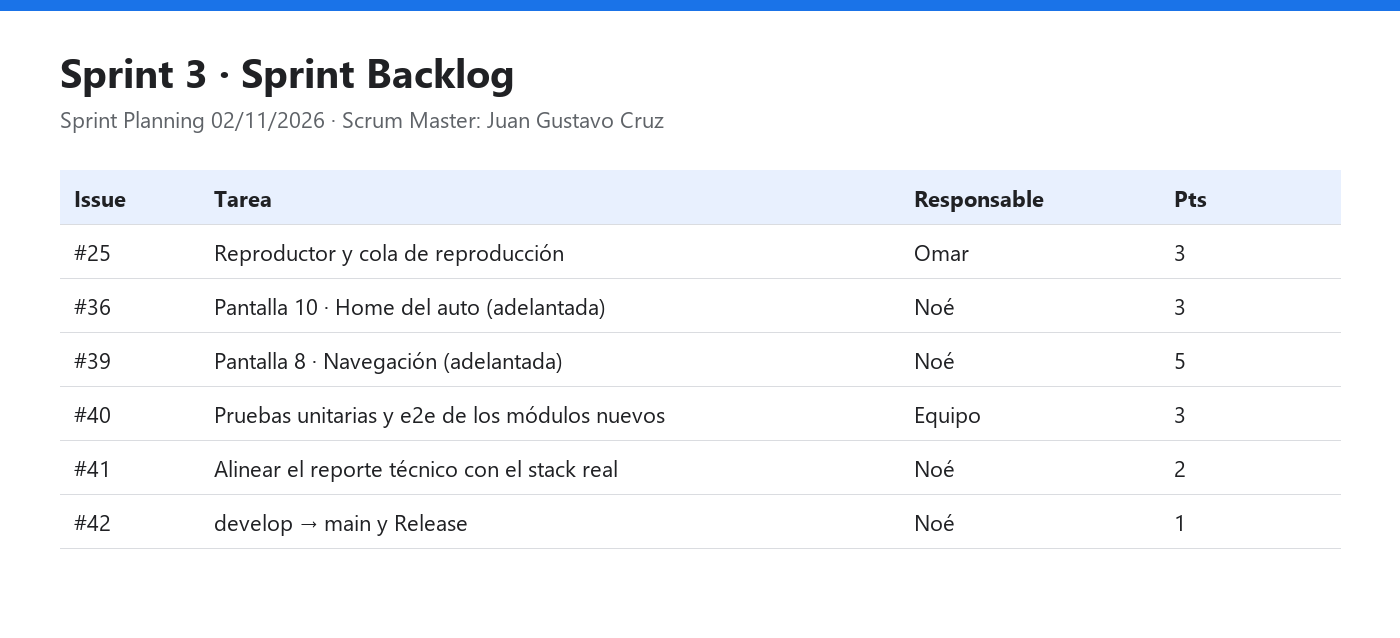
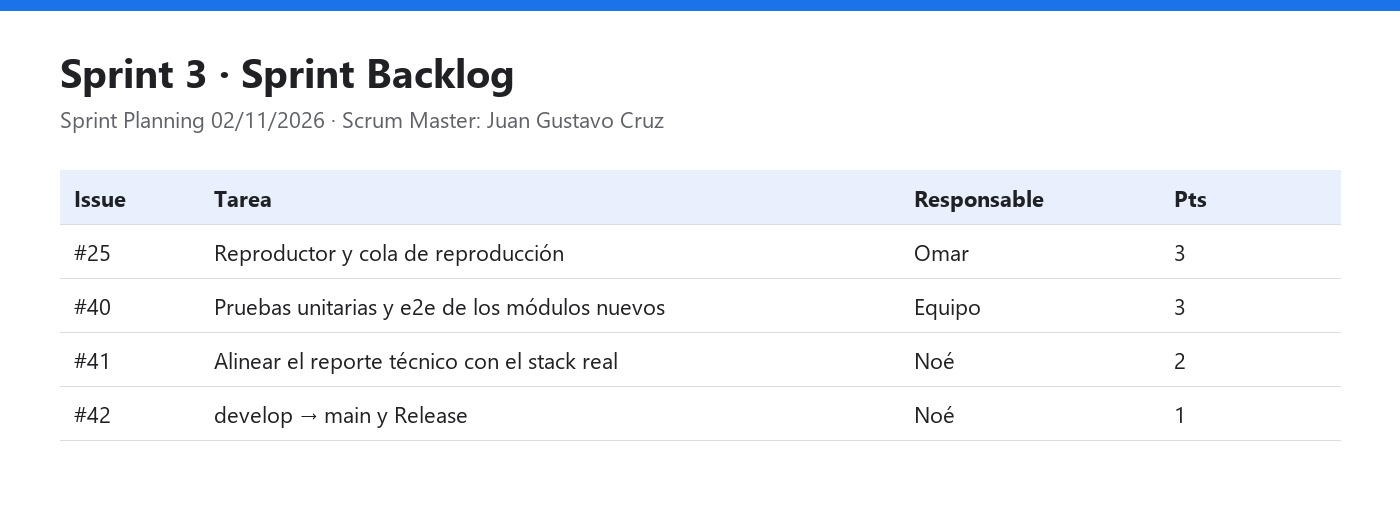
docs(scrum): el modo automóvil pasa al Sprint 4; el Sprint 3 queda con audio, seguridad, reporte y Release

diff --git a/docs/scrum/sprint-3/review.md b/docs/scrum/sprint-3/review.md
@@ -15,11 +15,11 @@
 
 ## Resultado del sprint
 
-Milestone: [Sprint 3](https://github.com/gusmendez3249/Jose_Alfredo/milestone/3) · **7 de 7 issues cerradas (100 %)**
+Milestone: [Sprint 3](https://github.com/gusmendez3249/Jose_Alfredo/milestone/3) · **4 de 4 issues cerradas (100 %)**
 
 | Milestone | Cerradas | Abiertas | Avance |
 |---|---|---|---|
-| [Sprint 3](https://github.com/gusmendez3249/Jose_Alfredo/milestone/3) | 7 | 0 | 100 % |
+| [Sprint 3](https://github.com/gusmendez3249/Jose_Alfredo/milestone/3) | 4 | 0 | 100 % |
 
 ### Burndown
 
@@ -31,16 +31,14 @@ Gráfica generada con `docs/scrum/herramientas/burndown.py` a partir del campo S
 
 | Issue | Tarea | Responsable | Evidencia |
 |---|---|---|---|
-| #39 | [Auto] Pantalla 8 · Navegación en Android Auto | Noé | PR #53 · [Daily 5 del Sprint 2](../sprint-2/daily-5.md) |
-| #36 | [Auto] Pantalla 10 · Home del modo automóvil | Noé | PR #53 · [Daily 6 del Sprint 2](../sprint-2/daily-6.md) |
 | #25 | Reproductor y cola de reproducción | Omar | PRs #57 y #58 · [Daily 5](daily-5.md) |
-| #40 | [QA] Pruebas unitarias y e2e de los módulos nuevos | Equipo | Pruebas de `auto`, de la cola de audio y de seguridad · `docs/pruebas/android-auto.md` |
+| #40 | [QA] Pruebas unitarias y e2e de los módulos nuevos | Equipo | 53 pruebas unitarias de la app (incluida la cola de audio) y pruebas HTTP de seguridad del backend |
 | #41 | [Docs] Reporte técnico alineado con el stack real | Noé | PR #54 · [Daily 2](daily-2.md), [Daily 3](daily-3.md) |
 | #42 | [Release] `develop` → `main` y Release | Noé | PR #55 · [v4.2-sprint3](https://github.com/gusmendez3249/Jose_Alfredo/releases/tag/v4.2-sprint3) |
 
-Épicas cerradas: **#21 Vista de navegación GPS para Android Auto** y **#24 Demos de audio del concierto**.
+Épica cerrada: **#24 Demos de audio del concierto**.
 
-Integraciones del sprint: PR #56 (seguridad #50–#52), PRs #57 y #58 (audio), PR #54 (documentación) y PR #55 (`develop` → `main`).
+Integraciones del sprint: PR #56 (seguridad #50–#52), PR #59 (seguridad en la nube), PRs #57 y #58 (audio), PR #54 (documentación) y PR #55 (`develop` → `main`).
 
 ## Tareas no terminadas
 
@@ -50,12 +48,15 @@ Ninguna: todas las issues del milestone quedaron cerradas e integradas en `devel
 
 | Evidencia | Qué se muestra | Responsable |
 |---|---|---|
-| <img src="../sprint-2/img/review-codigo-home-auto.png" width="420"> | Home del modo automóvil: audio en curso, ruta activa, resumen AR y alerta de salida (#36) | Noé |
-| <img src="../sprint-2/img/review-codigo-navegacion.png" width="420"> | Navegación en Android Auto con lectura por voz (#39) | Noé |
+| <img src="img/review-seguridad-nube.png" width="420"> | Seguridad y servicios en la nube: secretos, validación, token cifrado y pruebas (PR #59) | Noé |
 | <img src="img/review-codigo-cola.png" width="420"> | Cola de reproducción: qué hace cuando una demo falla (#25) | Omar |
 | <img src="img/daily-5-integracion.png" width="420"> | PRs integrados en el sprint, con CI en verde | Equipo |
 
-**Calidad:** los PRs #55, #56, #57 y #58 pasaron Backend CI y Android CI. Pruebas unitarias: 23 del módulo `auto`, las de la cola de audio (`PlaybackLogicTest`) y la suite del backend con las pruebas de seguridad.
+**Calidad:** los PRs #55, #56, #57, #58 y #59 pasaron Backend CI y Android CI. Pruebas: 53 unitarias de la app, incluida la cola de audio (`PlaybackLogicTest`), y la suite del backend con las pruebas HTTP de seguridad.
+
+## Cambios de alcance
+
+El modo automóvil (#21, #36 y #39) pasa al **Sprint 4** (#84) para validarlo en un head unit.
 
 ## Tablero al cierre
 
@@ -63,7 +64,7 @@ Ninguna: todas las issues del milestone quedaron cerradas e integradas en `devel
 
 ## Retroalimentación del Product Owner
 
-- El modo automóvil cubre las cuatro pantallas de la épica #21. Falta la prueba con usuarios en un celular físico, con la guía de `docs/pruebas/android-auto.md`.
+- La seguridad quedó reforzada en dos rondas (#50–#52 y PR #59). Como el repositorio es público, hay que rotar la contraseña de la base de datos y el `JWT_SECRET`.
 - El audio quedó integrado después de la Release `v4.2-sprint3`, así que hay que publicar una Release complementaria con las demos y el reproductor.
 - Se aprueba el incremento del sprint.
 

diff --git a/docs/scrum/sprint-3/incremento.md b/docs/scrum/sprint-3/incremento.md
@@ -13,12 +13,8 @@
 |---|---|---|---|
 | 1 | #22 | Galería interactiva como foro de la comunidad | Omar |
 | 1 | #32, #35, #23 | Realidad aumentada: cámara de reconocimiento, sitio identificado e historial | Gustavo |
-| 1 | #34, #37 | Módulo Android Auto y pantalla 9 · Alerta de salida | Noé |
 | 1 | #26, #27 | Rama `develop`, flujo con PR y CI con GitHub Actions | Noé |
-| 2 | #33, #28 | Pantalla 7 · Elige tu destino con el catálogo de sitios | Noé · Gustavo |
 | 2 | #50, #51, #52 | Seguridad: chat con sesión, rate limiting y precio del boleto en el servidor | Gustavo |
-| 3 | #39 | Pantalla 8 · Navegación en Android Auto | Noé |
-| 3 | #36 | Pantalla 10 · Home del modo automóvil | Noé |
 | 3 | #41 | Reporte técnico y READMEs alineados con el stack real | Noé |
 | 3 | #42 | Integración `develop` → `main` y Release | Noé |
 
@@ -30,27 +26,24 @@ Agregado en `v4.3-sprint3` (11/11/2026):
 | 3 | PR #58 | Cola robusta ante errores, rediseño del reproductor y subida de canciones | Omar |
 | 3 | PR #59 | Seguridad y servicios en la nube: secretos, validación de entradas, token cifrado y pruebas HTTP | Noé |
 | 3 | PR #81 | Evidencias Scrum completas de los Sprints 1–3 | Noé |
-La tarjeta *Audio en curso* del Home del auto muestra "Sin audio en curso" hasta que se integren.
 
 ## Cómo probarlo
 
 1. Descargar `FestivalTrack-v4.3-sprint3.apk` de la Release más reciente e instalarlo en un celular Android.
 2. Levantar el backend: `cd festivaltrack-backend && npm install && npm run start:dev` con el `.env` del equipo.
 3. **Galería y AR:** iniciar sesión con una cuenta de rol USUARIO → **Galería** y **Explorar AR** desde Inicio.
-4. **Pantalla 7:** Mapa → ícono del auto → elegir un destino → **Navegar**.
-5. **Pantallas 8, 9 y 10:** conectar el celular al Desktop Head Unit siguiendo [`docs/pruebas/android-auto.md`](../../pruebas/android-auto.md).
-6. **Seguridad:** el chat en vivo pide sesión, y el checkout muestra el precio calculado por el servidor.
+4. **Audio:** pestaña **Conciertos** → abrir un concierto → reproducir una demo y seguir escuchando en otra sección.
+5. **Seguridad:** el chat en vivo pide sesión, y el checkout muestra el precio calculado por el servidor.
 
 ## Evidencia
 
 | Captura | Qué se muestra | Responsable |
 |---|---|---|
 | <img src="../sprint-2/img/seguridad-52-app-checkout-desglose.png" width="220"> | Compra con el precio calculado por el servidor (#52) | Gustavo |
-| <img src="../sprint-2/img/review-codigo-home-auto.png" width="420"> | Pantalla 10 · Home del modo automóvil (#36) | Noé |
-| <img src="../sprint-2/img/review-codigo-navegacion.png" width="420"> | Pantalla 8 · Navegación en Android Auto (#39) | Noé |
+| <img src="img/review-seguridad-nube.png" width="420"> | Seguridad y servicios en la nube (PR #59) | Noé |
 | <img src="img/daily-5-integracion.png" width="420"> | PRs integrados y Release `v4.2-sprint3` (#42) | Equipo |
 
-**Calidad:** Android CI en verde en el PR #55. Pruebas unitarias: 23 de la app (módulo `auto`) y la suite del backend con las pruebas de seguridad.
+**Calidad:** Android CI y Backend CI en verde en los PRs #55 y #82. Pruebas: 53 unitarias de la app y la suite del backend con las pruebas HTTP de seguridad.
 
 ---
 

diff --git a/docs/scrum/README.md b/docs/scrum/README.md
@@ -47,7 +47,7 @@ base del modo automóvil (Android Auto y alerta de salida), seguridad del backen
 ## Sprint 2 · 19 al 30 de octubre de 2026
 
 **Objetivo:** demos de audio de cada concierto, catálogo de sitios para el GPS y la pantalla "Elige tu destino" del modo automóvil.
-Se sumaron las correcciones de seguridad #50–#52 y se adelantaron las pantallas 8 y 10 del auto (#39 y #36).
+Se sumaron las correcciones de seguridad #50–#52 y se adelantó el código de las pantallas 8 y 10 del auto (#39 y #36), que se valida en el Sprint 4.
 
 | Ceremonia | Fecha | Documento |
 |---|---|---|
@@ -77,6 +77,19 @@ alinear el reporte técnico con el stack real y publicar la Release final.
 | Sprint Review | Vie 13/11 | [review.md](sprint-3/review.md) |
 | Retrospectiva | Vie 13/11 | [retro.md](sprint-3/retro.md) |
 | Incremento | Vie 13/11 | [incremento.md](sprint-3/incremento.md) |
+
+## Sprint 4 · 16 al 27 de noviembre de 2026
+
+**Objetivo:** validar el modo automóvil (épica #21, pantallas 8 y 10: #39 y #36) en un head unit con el emulador de
+Android Automotive OS, y hacer la prueba con usuarios. Android Auto no se pudo usar ni en los emuladores con Google Play
+ni en el celular del equipo; el detalle está en #84 y en [`docs/pruebas/android-auto.md`](../pruebas/android-auto.md).
+
+| Issue | Tarea | Responsable |
+|---|---|---|
+| #84 | Validar el modo automóvil en Android Automotive OS y prueba con usuarios | Noé |
+| #39, #36 | Pantallas 8 y 10: evidencia en el head unit | Noé |
+
+Las ceremonias del Sprint 4 se registran en `sprint-4/` conforme se realicen.
 
 ## Burndown
 

diff --git a/docs/scrum/sprint-2/review.md b/docs/scrum/sprint-2/review.md
@@ -21,7 +21,7 @@ Milestone: [Sprint 2](https://github.com/gusmendez3249/Jose_Alfredo/milestone/2)
 |---|---|---|---|
 | [Sprint 2](https://github.com/gusmendez3249/Jose_Alfredo/milestone/2) | 8 | 0 | 100 % |
 
-Además se adelantaron dos tareas del Sprint 3 (#39 y #36), integradas en `develop` con el PR #53.
+Además se adelantó el código de las pantallas 8 y 10 (#39 y #36), integrado en `develop` con el PR #53; su validación en un head unit queda para el Sprint 4 (#84).
 
 ### Burndown
 
@@ -42,7 +42,7 @@ Gráfica generada con `docs/scrum/herramientas/burndown.py` a partir del campo S
 | #30 | [Audio] Pantalla 4 · Demos del concierto | Omar | Reportada en [Daily 6](daily-6.md) |
 | #31 | [Audio] Pantalla 5 · Reproductor en segundo plano | Omar | Reportada en [Daily 6](daily-6.md) |
 
-Adelantadas del Sprint 3:
+Código adelantado (se valida en el Sprint 4):
 
 | Issue | Tarea | Responsable | Evidencia |
 |---|---|---|---|
@@ -85,8 +85,8 @@ Vista del tablero: [GitHub Projects · Festival Track](https://github.com/users/
 | Estado | Tareas del Sprint 2 |
 |---|---|
 | Done | #28, #29, #30, #31, #33, #50, #51, #52 |
-| Done (adelantadas del Sprint 3) | #39, #36 |
-| Continúan en el Sprint 3 | Épica #24 (falta #25) · épica #21 cerrada al completar #39 y #36 |
+| Código adelantado (validación en el Sprint 4) | #39, #36 |
+| Continúan después | Épica #24 (falta #25) en el Sprint 3 · épica #21 en el Sprint 4 |
 
 ![Tablero al cierre del Sprint 2](img/review-tablero.png)
 

diff --git a/docs/scrum/sprint-3/retro.md b/docs/scrum/sprint-3/retro.md
@@ -12,7 +12,7 @@
 ## Continuar (lo que funcionó)
 
 - Integrar con PR y CI en verde: los PRs #54 a #58 entraron a `develop` sin conflictos.
-- Adelantar trabajo cuando sobra capacidad: las pantallas 8 y 10 llegaron desde el Sprint 2.
+- Acompañar cada cambio de seguridad con pruebas HTTP y evidencia, como en #50–#52 y el PR #59.
 - Documentar cada ceremonia el mismo día, con su evidencia (captura de la app o código).
 
 ## Dejar de hacer (lo que no funcionó)
@@ -24,14 +24,14 @@
 
 - Congelar `develop` el jueves de cierre y publicar la Release solo después de integrar todos los PRs del sprint.
 - Subir la rama al remoto al menos una vez al día, aunque el trabajo no esté terminado.
-- Probar el modo automóvil en un celular físico antes de cada Review.
+- Rotar las credenciales en cuanto se detecte que quedaron expuestas en el repositorio.
 
 ## Acciones para el siguiente sprint
 
 | Acción | Responsable | Cómo sabremos que se cumplió |
 |---|---|---|
 | Publicar una Release con el audio (`develop` → `main`) | Noé | Release nueva con el APK que incluye las demos |
-| Prueba del modo automóvil con usuarios en celular físico | Gustavo | Tabla de resultados llena en `docs/pruebas/android-auto.md` |
+| Rotar la contraseña de la base de datos y el `JWT_SECRET` | Gustavo | Las credenciales anteriores dejan de funcionar |
 | Regla de protección en `develop` | Gustavo | Settings → Branches muestra la regla activa |
 
 ## Seguimiento de las acciones del sprint anterior

diff --git a/docs/scrum/sprint-3/daily-1.md b/docs/scrum/sprint-3/daily-1.md
@@ -23,8 +23,8 @@
 
 ## Noé Chavero Martínez
 
-- **¿Qué hice desde la última daily?** Sprint Planning. Como #39 y #36 se adelantaron en el Sprint 2, se toman la #41 (alinear el reporte técnico con el stack real) y la #42 (integración y Release del incremento).
-- **¿Qué haré hoy?** Validar #39 y #36 en el Desktop Head Unit y revisar qué secciones del reporte mencionan Firebase.
+- **¿Qué hice desde la última daily?** Sprint Planning: se toman la #41 (alinear el reporte técnico con el stack real) y la #42 (integración y Release del incremento).
+- **¿Qué haré hoy?** Revisar qué secciones del reporte técnico mencionan Firebase y preparar el plan de la Release.
 - **¿Tengo algún bloqueo?** Ninguno.
 
 ## Avance mostrado
@@ -36,8 +36,6 @@ Sprint Planning. Objetivo del Sprint 3: **cerrar el MVP (reproductor con cola), 
 | Issue | Tarea | Responsable | Estimate |
 |---|---|---|---|
 | #25 | Reproductor y cola de reproducción | Omar | 3 |
-| #36 | [Auto] Pantalla 10 · Home del modo automóvil (adelantada, ya en `develop`) | Noé | 3 |
-| #39 | [Auto] Pantalla 8 · Navegación (adelantada, ya en `develop`) | Noé | 5 |
 | #40 | [QA] Pruebas unitarias y e2e de los módulos nuevos | Equipo | 3 |
 | #41 | [Docs] Alinear el reporte técnico con el stack real | Noé | 2 |
 | #42 | [Release] `develop` → `main` y Release | Noé | 1 |

diff --git a/docs/pruebas/android-auto.md b/docs/pruebas/android-auto.md
@@ -1,4 +1,4 @@
-# Prueba del modo automóvil (Android Auto) · Sprint 3
+# Prueba del modo automóvil (Android Auto) · Sprint 4
 
 Guía para probar las pantallas 8, 9 y 10 del modo automóvil (#39, #37, #36) en el **Desktop Head Unit (DHU)**
 y dejar las capturas que faltan en la Sprint Review y el Incremento.
@@ -11,6 +11,10 @@ Los emuladores no sirven para esta prueba. Se intentó el 10/11/2026 en dos emul
 |---|---|
 | Pixel 9 Pro XL · Android 16 (API 36) | Android Auto viene como *stub* y la Play Store dice *"This app isn't compatible with your device anymore"* |
 | Pixel 7 · Android 14 (API 34) | Mismo mensaje en la Play Store |
+| Celular físico del equipo (12/11/2026) | Android Auto tampoco permitió usar la aplicación |
+
+> **Sprint 4 (#84):** la validación se hará con el emulador de **Android Automotive OS**, que corre las pantallas
+> del auto directamente, sin teléfono, sin Android Auto y sin DHU.
 
 Sin la app real de Android Auto no existe la opción **Iniciar servidor de unidad principal** y el DHU no tiene a qué
 conectarse. No instalar apps parecidas de otros desarrolladores (por ejemplo "Car Play Connect"): no funcionan con el

diff --git a/docs/scrum/sprint-3/daily-5.md b/docs/scrum/sprint-3/daily-5.md
@@ -12,7 +12,7 @@
 ## Juan Gustavo Ángel Cruz Méndez
 
 - **¿Qué hice desde la última daily?** El PR #56 integró en `develop` y `main` las correcciones de seguridad #50, #51 y #52, con Backend CI y Android CI en verde.
-- **¿Qué haré hoy?** Probar el modo automóvil con mi celular en el Desktop Head Unit siguiendo `docs/pruebas/android-auto.md`, y tomar las capturas para la Review.
+- **¿Qué haré hoy?** Revisar el PR #59 de seguridad en la nube: validación de entradas, token cifrado y pruebas HTTP.
 - **¿Tengo algún bloqueo?** Ninguno.
 
 ## Omar Salinas Salinas
@@ -57,12 +57,12 @@ fun afterError(queueSize: Int, currentIndex: Int, consecutiveErrors: Int,
 
 | Estado | Tareas del Sprint 3 |
 |---|---|
-| Done | #25, #36, #39, #40, #41, #42 · épicas #21 y #24 |
+| Done | #25, #40, #41, #42 · épica #24 |
 
 ## Acuerdos
 
 - El viernes 13/11, después de la Review, se integra `develop` → `main` y se publica una Release con el audio.
-- Gustavo sube las capturas del modo automóvil a `docs/scrum/sprint-3/img/` con los nombres de la guía.
+- Gustavo revisa el PR #59 antes de la Review.
 
 ---
 

diff --git a/docs/scrum/sprint-3/daily-3.md b/docs/scrum/sprint-3/daily-3.md
@@ -24,7 +24,7 @@
 ## Noé Chavero Martínez
 
 - **¿Qué hice desde la última daily?** Secciones 12, 14 y 15 del reporte redactadas con el stack real.
-- **¿Qué haré hoy?** Actualizar los READMEs con las pantallas del modo automóvil y del AR.
+- **¿Qué haré hoy?** Actualizar los READMEs con las pantallas del AR y de la galería.
 - **¿Tengo algún bloqueo?** Ninguno.
 
 ## Avance mostrado
@@ -43,7 +43,6 @@
 | Backend           | NestJS (Node.js + TypeScript)        | API REST: autenticación, eventos, boletos con QR, chat, AR |
 | Base de datos     | PostgreSQL en Neon + Prisma ORM      | Usuarios, eventos, boletos, canciones y sitios culturales  |
 | Realidad aumentada| CameraX + reconocimiento visual (IA) | La app captura la foto y el backend identifica el sitio    |
-| Integración auto  | Android Auto · Car App Library       | Home, Navegación y Alerta de salida con plantillas         |
 | Streaming y audio | Media3 (ExoPlayer) con RTSP          | Transmisión en vivo y reproducción de audio                |
 ```
 

diff --git a/docs/scrum/sprint-3/daily-6.md b/docs/scrum/sprint-3/daily-6.md
@@ -11,7 +11,7 @@
 
 ## Juan Gustavo Ángel Cruz Méndez
 
-- **¿Qué hice desde la última daily?** Preparé la prueba del modo automóvil en el Desktop Head Unit con mi celular, siguiendo `docs/pruebas/android-auto.md`.
+- **¿Qué hice desde la última daily?** Revisé el PR #59: las pruebas HTTP de autenticación, roles y validación pasan en local, y la auditoría de dependencias del CI quedó en verde.
 - **¿Qué haré hoy?** Organizar la Sprint Review del viernes: agenda, demo por integrante y revisión del milestone con el Product Owner.
 - **¿Tengo algún bloqueo?** Ninguno.
 
@@ -47,7 +47,7 @@
 ## Acuerdos
 
 - Sprint Review con el Product Owner el viernes 13/11 a las 11:00 y Retrospectiva a las 12:15.
-- Orden de la demo: modo automóvil (Noé), audio (Omar), seguridad y pruebas (Gustavo).
+- Orden de la demo: seguridad en la nube (Noé), audio (Omar), seguridad del backend y pruebas (Gustavo).
 
 ---
 

diff --git a/docs/scrum/sprint-2/daily-1.md b/docs/scrum/sprint-2/daily-1.md
@@ -23,7 +23,7 @@
 
 ## Noé Chavero Martínez
 
-- **¿Qué hice desde la última daily?** Sprint Planning: se tomó la #33 *Pantalla 7 · Elige tu destino*. Si sobra capacidad, se adelantan la #39 (pantalla 8) y la #36 (pantalla 10) del Sprint 3.
+- **¿Qué hice desde la última daily?** Sprint Planning: se tomó la #33 *Pantalla 7 · Elige tu destino*. Si sobra capacidad, se adelanta el código de la #39 (pantalla 8) y la #36 (pantalla 10).
 - **¿Qué haré hoy?** Actualizar `feat/NaveagionGPSCarPlay` con `develop`, que ya trae la galería y el AR del Sprint 1, como se acordó en la retro.
 - **¿Tengo algún bloqueo?** Para la #33 hacen falta las coordenadas de los sitios (#28); mientras tanto se usan las del evento.
 

diff --git a/docs/scrum/sprint-2/daily-3.md b/docs/scrum/sprint-2/daily-3.md
@@ -24,7 +24,7 @@
 ## Noé Chavero Martínez
 
 - **¿Qué hice desde la última daily?** Burndown por sprint y workflow diario (`.github/workflows/burndown.yml`) que sube la imagen a `docs/scrum-sprints`.
-- **¿Qué haré hoy?** Hay capacidad libre en el sprint, así que se adelanta la #39 *Pantalla 8 · Navegación en Android Auto* del Sprint 3.
+- **¿Qué haré hoy?** Hay capacidad libre en el sprint, así que se adelanta el código de la #39 *Pantalla 8 · Navegación en Android Auto*.
 - **¿Tengo algún bloqueo?** Ninguno.
 
 ## Avance mostrado
